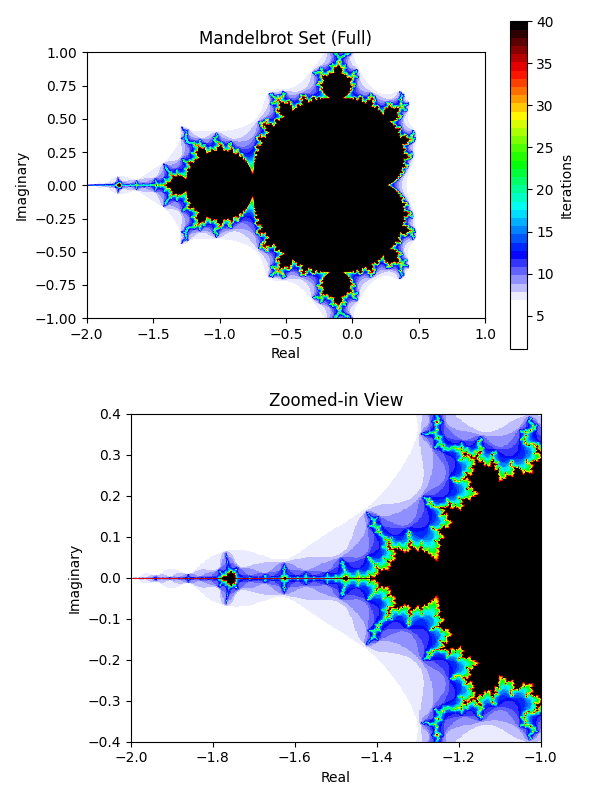
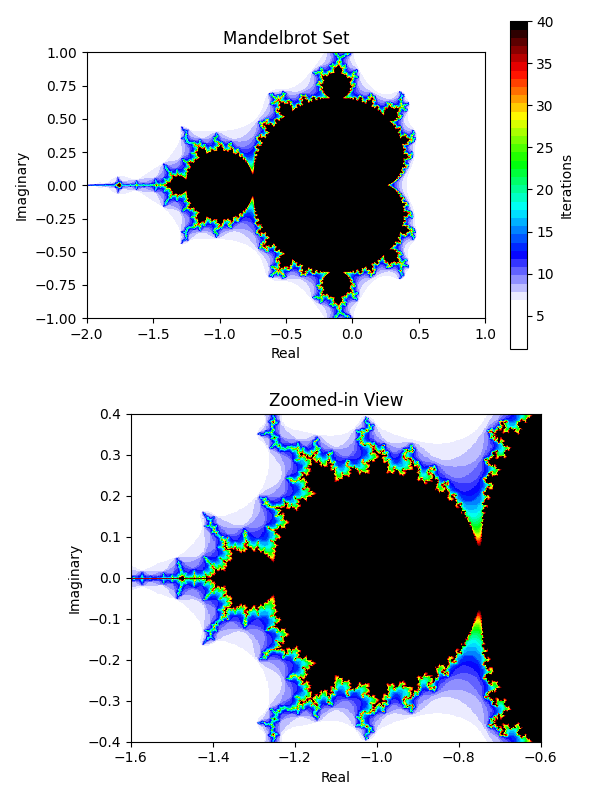
update fractals

diff --git a/fractals.py b/fractals.py
@@ -23,7 +23,7 @@ def julia(x, y, c, max_iterations):
 
 width = 1000
 height = 1000
-max_iterations = 50
+max_iterations = 40
 
 real_range = [(-2, 1), (-1.5, 1.5)]
 imag_range = [(-1, 1), (-1.5, 1.5)]
@@ -32,7 +32,7 @@ julia_c = complex(-0.62772, -0.42193)
 
 img = np.zeros((2, height, width))
 
-k = 1
+k = 0
 # for k in range(2):
 for i in range(height):
     for j in range(width):
@@ -75,7 +75,7 @@ ax1.set_ylabel("Imaginary")
 ax1.grid(False)
 
 # Plot a zoomed-in view in the second subplot
-zoom_real = (-2, -1)
+zoom_real = (-1.6, -0.6)
 zoom_imag = (-0.4, 0.4)
 zoom_img = img[0][
     int(

diff --git a/irrationals.py b/irrationals.py
@@ -14,7 +14,8 @@ for const_name, const_value in constants.items():
     differences = []
     for p in precision:
         counts = [const_digits[:p].count(str(digit)) for digit in digits]
-        diff = (np.max(counts) - np.min(counts)) / (p / 10)
+        avg = np.average(counts)
+        diff = np.sum(np.abs(counts - avg)) / (p / 10)
         differences.append(diff)
 
     plt.plot(precision, differences, label=const_name)
